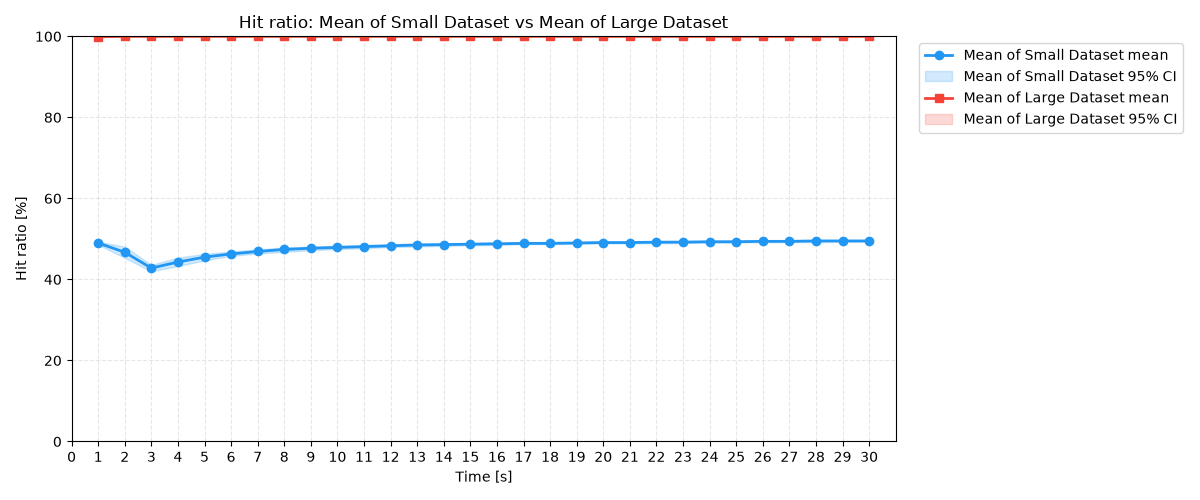
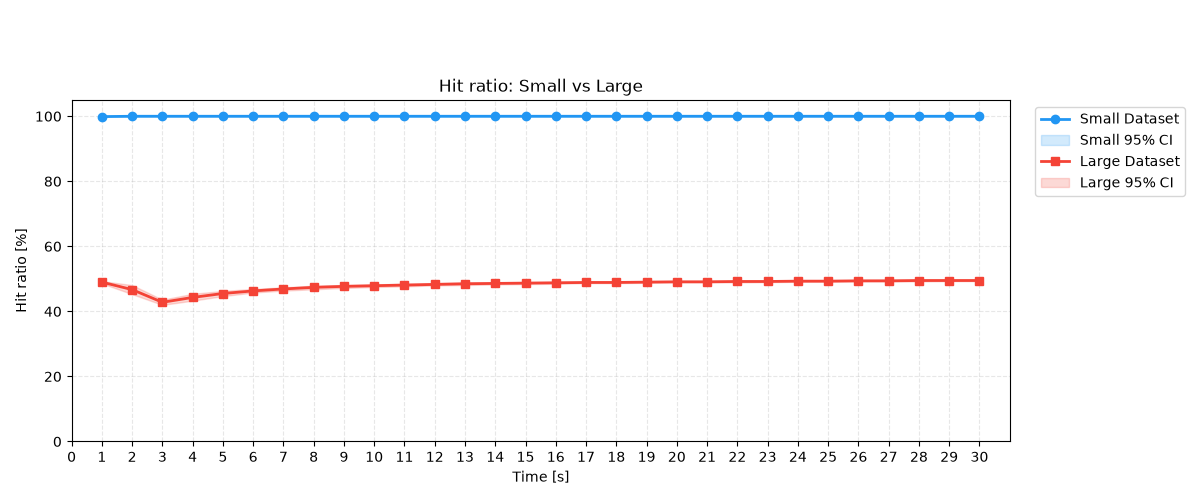
save compare small and large size

diff --git a/plot/exp1/compare-hitrate-size.py b/plot/exp1/compare-hitrate-size.py
@@ -1,7 +1,7 @@
 import argparse
 import os
-from pathlib import Path
 import sys
+from pathlib import Path
 
 import matplotlib.pyplot as plt  # pyright: ignore[reportMissingImports]
 
@@ -16,6 +16,7 @@ from plot.config import (
     legend_pos,
     load_csv,
 )
+
 
 def main():
     parser = argparse.ArgumentParser(
@@ -64,13 +65,23 @@ def main():
     _, ax = plt.subplots(figsize=FIGSIZE)
 
     ax.plot(
-        t1, v1, color=args.color1, linewidth=2, marker="o", label=f"{args.label1} mean"
+        t1,
+        v1,
+        color=args.color1,
+        linewidth=2,
+        marker="o",
+        label=f"{args.label1} Dataset",
     )
     ax.fill_between(
         t1, lo1, hi1, color=args.color1, alpha=0.2, label=f"{args.label1} 95% CI"
     )
     ax.plot(
-        t2, v2, color=args.color2, linewidth=2, marker="s", label=f"{args.label2} mean"
+        t2,
+        v2,
+        color=args.color2,
+        linewidth=2,
+        marker="s",
+        label=f"{args.label2} Dataset",
     )
     ax.fill_between(
         t2, lo2, hi2, color=args.color2, alpha=0.2, label=f"{args.label2} 95% CI"
@@ -78,7 +89,7 @@ def main():
 
     ax.set_xticks(list(range(0, 31)))
     ax.set_xlim([0, 31])  # pyright: ignore[reportArgumentType]
-    ax.set_ylim([0, 100])  # pyright: ignore[reportArgumentType]
+    ax.set_ylim([0, 105])  # pyright: ignore[reportArgumentType]
     ax.ticklabel_format(axis="y", style="plain", useOffset=False)
     ax.set_xlabel("Time [s]")
     ax.set_ylabel("Miss ratio [%]" if args.metric == "miss" else "Hit ratio [%]")
@@ -88,6 +99,7 @@ def main():
     ax.legend(**legend_pos)
     ax.grid(True, **grid_style)
     plt.tight_layout()
+    plt.subplots_adjust(top=0.80)
 
     output = args.output or f"charts/{args.label1}-{args.label2}-{args.metric}.png"
     os.makedirs(os.path.dirname(output), exist_ok=True)
